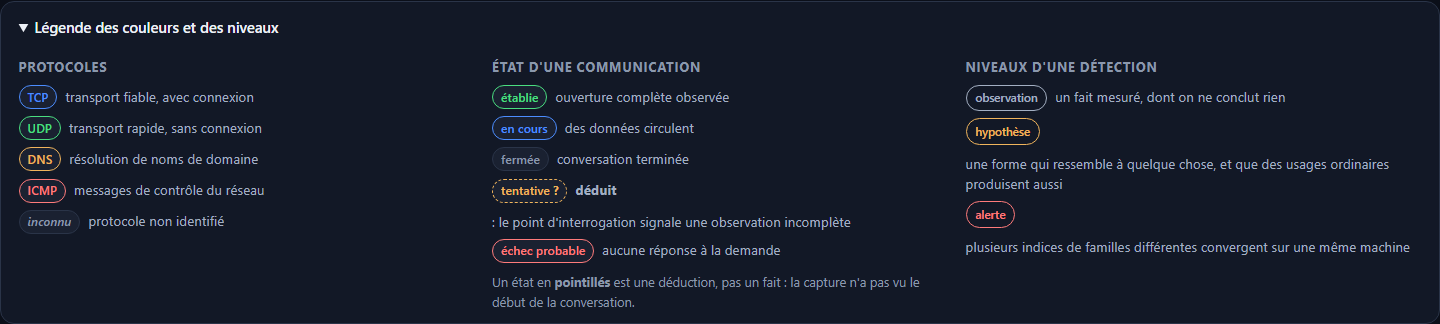
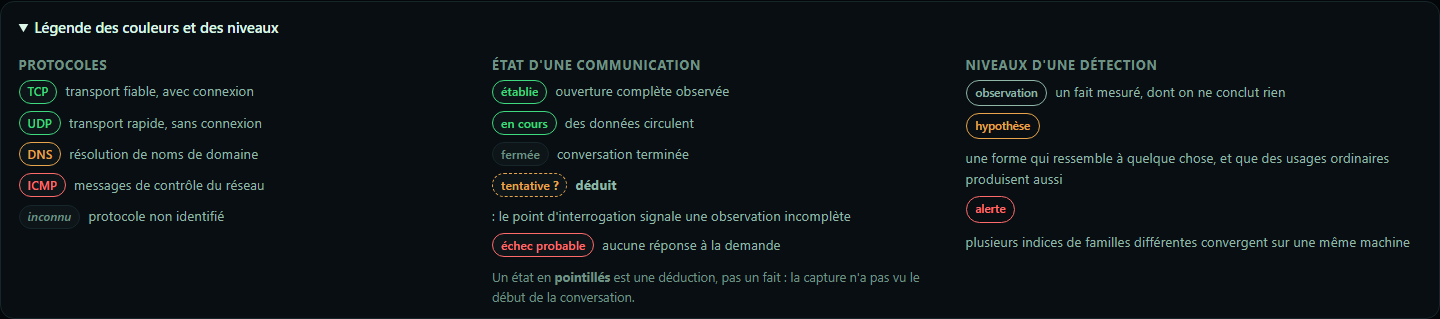
feat(web): theme Matrix - palette vert phosphore, typographie, fond
LA RÉFÉRENCE A ÉTÉ REGARDÉE, PAS IMAGINÉE. hackaiz.com n'est PAS un site Matrix : c'est un site
CLAIR, blanc et bleu pâle, avec un accent rouge. Ce qui le rend beau n'est donc pas son thème
mais sa FACTURE : un titre énorme et très serré, un seul accent saturé, des blancs généreux,
des petites étiquettes en capitales, et de la retenue partout. C'est cette facture qu'on
recherche ici, transposée dans un thème Matrix.

LA PALETTE : noir profond (#04070A) et vert phosphore (#3FD97F), un seul accent et son
intensité — dans Matrix il n'y a pas deux couleurs. Les gris eux-mêmes sont teintés de vert :
un gris neutre aurait l'air d'un gris, pas d'un écran.

L'ORANGE ET LE ROUGE SONT CONSERVÉS pour les niveaux d'alerte. Ce sont des couleurs de SENS :
les remplacer par du vert priverait la lecture des niveaux de toute signification, et un
« danger » écrit en vert serait un contresens.

CONTRASTES MESURÉS, pas estimés : texte 17,1:1 · texte doux 8,7:1 · accent 10,6:1 (et 10,1:1
sur la surface où se trouvent les boutons) · accent clair 15,3:1 · orange 9,2:1 · rouge 7,0:1.
Tous AAA sauf le rouge, à AA. Aucun n'est sous le seuil.

TYPOGRAPHIE : deux familles, deux rôles. Le sans-serif porte la prose — c'est lui qui fait la
belle typographie des sites de référence, avec ses titres serrés. Le monospace porte les
chiffres, les adresses et les étiquettes : c'est là que naît l'impression d'un terminal, sans
[…]

diff --git a/web/static/dashboard.css b/web/static/dashboard.css
@@ -155,13 +155,22 @@
   line-height: 1.1;
 }
 
-/* « Scope » porte le dégradé du logo. La couleur pleine sert de repli : un navigateur qui
-   ignore `background-clip` afficherait sinon du texte transparent — c'est-à-dire rien. */
+/* « Scope » porte le dégradé du thème — deux intensités du même vert phosphore, comme dans
+   Matrix il n'y a qu'une couleur et ses nuances. La couleur pleine sert de repli : un
+   navigateur qui ignore `background-clip` afficherait sinon du texte transparent, c'est-à-dire
+   rien du tout. */
 .entete__nom-suite {
   color: var(--accent-2);
   background-image: linear-gradient(100deg, var(--accent) 0%, var(--accent-2) 100%);
   -webkit-background-clip: text;
   background-clip: text;
+}
+
+/* Le mot lui-même : serré et lourd, comme les titres des sites de référence. C'est
+   l'espacement négatif qui donne cette impression de bloc, pas la graisse seule. */
+.entete__nom {
+  letter-spacing: -.025em;
+  font-weight: 800;
 }
 
 @supports ((-webkit-background-clip: text) or (background-clip: text)) {
@@ -283,6 +292,66 @@ body.guide-ouvert { overflow: hidden; }
 }
 
 .vue-onglet:focus-visible { outline: 2px solid var(--primaire); outline-offset: -2px; }
+
+/* ------------------------------------------------------------------ thème Matrix
+   Le fond est ce qui installe l'ambiance, et c'est aussi ce qui se rate le plus vite : trop
+   marqué, il rend le texte illisible ; trop discret, il ne se voit pas. Trois couches très
+   légères plutôt qu'une seule forte — une grille, un halo, une trame — dont aucune ne
+   dépasse quelques pour cent d'opacité. */
+body {
+  background-color: var(--fond);
+  background-image:
+    /* Le halo : une lueur verte hors du champ, qui donne de la profondeur au lieu d'aplatir. */
+    radial-gradient(120% 80% at 50% -10%, rgba(63, 217, 127, .07) 0%, transparent 60%),
+    /* La grille : le motif technique, à la limite du perceptible. */
+    linear-gradient(rgba(63, 217, 127, .022) 1px, transparent 1px),
+    linear-gradient(90deg, rgba(63, 217, 127, .022) 1px, transparent 1px);
+  background-size: 100% 100%, 34px 34px, 34px 34px;
+  background-attachment: fixed;
+}
+
+/* ------------------------------------------------------------------ typographie
+   Ce qui sépare un site soigné d'un site ordinaire tient à trois choses, et aucune n'est une
+   couleur : l'échelle des titres (franchement plus grands que le texte), leur interlignage
+   (serré), et la régularité des espacements. On les applique ici plutôt que de retoucher
+   chaque bloc un par un. */
+h1, h2, h3, h4 {
+  line-height: 1.15;
+  letter-spacing: -.02em;
+}
+
+.titre-section {
+  font-size: clamp(1.25rem, 1.1rem + .8vw, 1.65rem);
+  font-weight: 700;
+}
+
+/* Les étiquettes du terminal : monospace, capitales, très espacées. C'est la marque du
+   thème, et elle se reconnaît d'un coup d'œil sans coûter un mot de plus. */
+.titre-section,
+.detail-entete h3,
+.couches-titre {
+  font-family: var(--mono);
+}
+
+.bienvenue__titre {
+  font-size: clamp(1.5rem, 1.15rem + 1.7vw, 2.35rem);
+  font-weight: 800;
+  letter-spacing: -.03em;
+  line-height: 1.08;
+}
+
+.bienvenue__phrase {
+  font-size: clamp(1rem, .95rem + .35vw, 1.15rem);
+  line-height: 1.5;
+}
+
+/* Les chiffres du tableau de bord respirent mieux en monospace, et s'alignent en colonnes. */
+.carte__valeur,
+.mono-cellule,
+.hex,
+code {
+  font-variant-numeric: tabular-nums;
+}
 
 /* ---------------------------------------------------------- message d'accueil
    Une bannière, pas une fenêtre : elle dit où l'on est et ce que fait l'outil, puis s'efface
@@ -914,31 +983,44 @@ body.guide-ouvert { overflow: hidden; }
    ============================================================================= */
 
 :root {
-  --fond:        #0B0F19;
-  --surface:     #121826;
-  --surface-2:   #1A2131;
-  --bord:        #2A3448;
-  --texte:       #EDF1F7;
-  --texte-doux:  #A3AFC2;
-  --texte-faible:#8B98AC;
+  /* MATRIX : noir profond, vert phosphore, et rien d'autre. Un seul accent saturé, comme
+     sur les sites de référence — c'est la retenue qui fait la qualité, pas le nombre de
+     couleurs. Les teintes sont légèrement vertes jusque dans les gris : un gris neutre
+     aurait l'air d'un gris, pas d'un écran. */
+  --fond:        #04070A;
+  --surface:     #080E12;
+  --surface-2:   #0D1519;
+  --bord:        #17262B;
+  --texte:       #DCF7E8;
+  --texte-doux:  #8FB6A6;
+  --texte-faible:#6E9384;
 
   /* Bleu électrique et cyan, les couleurs du logo. Deux accents et non un seul, parce
      qu'ils ne servent pas à la même chose : le bleu porte le texte et les commandes (6,9:1
      sur ce fond), le cyan souligne sans être lu comme du texte (11:1). Le cyan sur fond clair
      serait illisible : c'est pour ça qu'il n'est pas employé pour écrire. */
-  --accent:      #4C8DFF;
-  --accent-2:    #22D3EE;
-  --accent-doux: #16213A;
-  --succes:      #4ADE80;
-  --attention:   #F0B45C;
-  --danger:      #FF7B7B;
+  /* Vert phosphore, un peu désaturé pour ne pas vibrer sur les grands aplats. Le second
+     accent est le même vert, plus clair : dans Matrix il n'y a pas deux couleurs, il y a une
+     couleur et son intensité. */
+  --accent:      #3FD97F;
+  --accent-2:    #6BFFB0;
+  --accent-doux: #0A2418;
+  --succes:      #3FD97F;
+  /* L'orange et le rouge restent : ce sont des couleurs de SENS — les niveaux d'alerte. Les
+     remplacer par du vert priverait la lecture des niveaux de toute signification. */
+  --attention:   #E8A54B;
+  --danger:      #FF6B6B;
 
   --rayon:       14px;
   --rayon-petit: 9px;
   --ombre:       0 1px 2px rgba(0,0,0,.5), 0 10px 28px rgba(0,0,0,.4);
   --transition:  170ms cubic-bezier(.22,.61,.36,1);
-  --police:      "Segoe UI", system-ui, -apple-system, sans-serif;
-  --mono:        "Cascadia Mono", "Consolas", monospace;
+  /* Deux familles, deux rôles. Le sans-serif porte la prose — c'est lui qui fait la belle
+     typographie des sites de référence, avec ses titres serrés. Le monospace porte les
+     chiffres, les adresses et les étiquettes : c'est là que naît l'impression d'un terminal,
+     sans imposer la lecture fatigante du monospace sur des paragraphes entiers. */
+  --police:      "Inter", "Segoe UI", system-ui, -apple-system, "Helvetica Neue", sans-serif;
+  --mono:        "JetBrains Mono", "Cascadia Mono", "Consolas", "SFMono-Regular", monospace;
 }
 
 /* Thème clair : soit forcé par le bouton, soit choisi par le système. */
